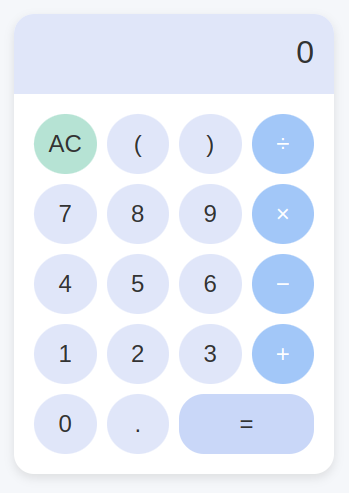
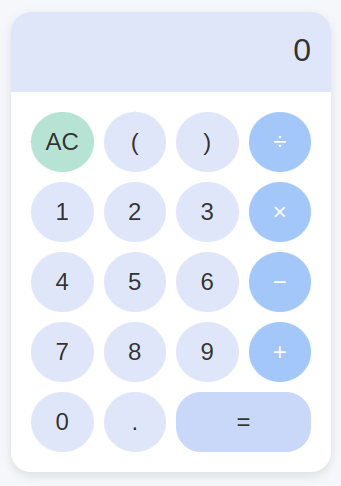
Invert number pad

diff --git a/index.html b/index.html
@@ -102,9 +102,9 @@
             <div class="button" onclick="appendToDisplay(')')">)</div>
             <div class="button operation" onclick="appendToDisplay('/')">÷</div>
 
-            <div class="button" onclick="appendToDisplay('7')">7</div>
-            <div class="button" onclick="appendToDisplay('8')">8</div>
-            <div class="button" onclick="appendToDisplay('9')">9</div>
+            <div class="button" onclick="appendToDisplay('1')">1</div>
+            <div class="button" onclick="appendToDisplay('2')">2</div>
+            <div class="button" onclick="appendToDisplay('3')">3</div>
             <div class="button operation" onclick="appendToDisplay('*')">×</div>
 
             <div class="button" onclick="appendToDisplay('4')">4</div>
@@ -112,9 +112,9 @@
             <div class="button" onclick="appendToDisplay('6')">6</div>
             <div class="button operation" onclick="appendToDisplay('-')">−</div>
 
-            <div class="button" onclick="appendToDisplay('1')">1</div>
-            <div class="button" onclick="appendToDisplay('2')">2</div>
-            <div class="button" onclick="appendToDisplay('3')">3</div>
+            <div class="button" onclick="appendToDisplay('7')">7</div>
+            <div class="button" onclick="appendToDisplay('8')">8</div>
+            <div class="button" onclick="appendToDisplay('9')">9</div>
             <div class="button operation" onclick="appendToDisplay('+')">+</div>
 
             <div class="button" onclick="appendToDisplay('0')">0</div>

diff --git a/README.md b/README.md
@@ -1,7 +1,7 @@
 
-# Simple Calculator
+# Simple, "Right-Side-Up" 😉 Calculator
 
-A simple, responsive calculator built using HTML, CSS, and JavaScript. This project replicates the UI design of a basic calculator with essential operations and is optimized for both mobile and desktop views.
+A simple, responsive calculator built using HTML, CSS, and JavaScript. This project replicates the UI design of a basic calculator with essential operations and is optimized for both mobile and desktop views—but puts the numbers in [the same order as on a telephone](https://ux.stackexchange.com/questions/16666/why-do-numpads-on-keyboards-and-phones-have-reversed-layouts), for those who prefer it.
 
 ![Calculator Preview](Screenshot.png)
 
